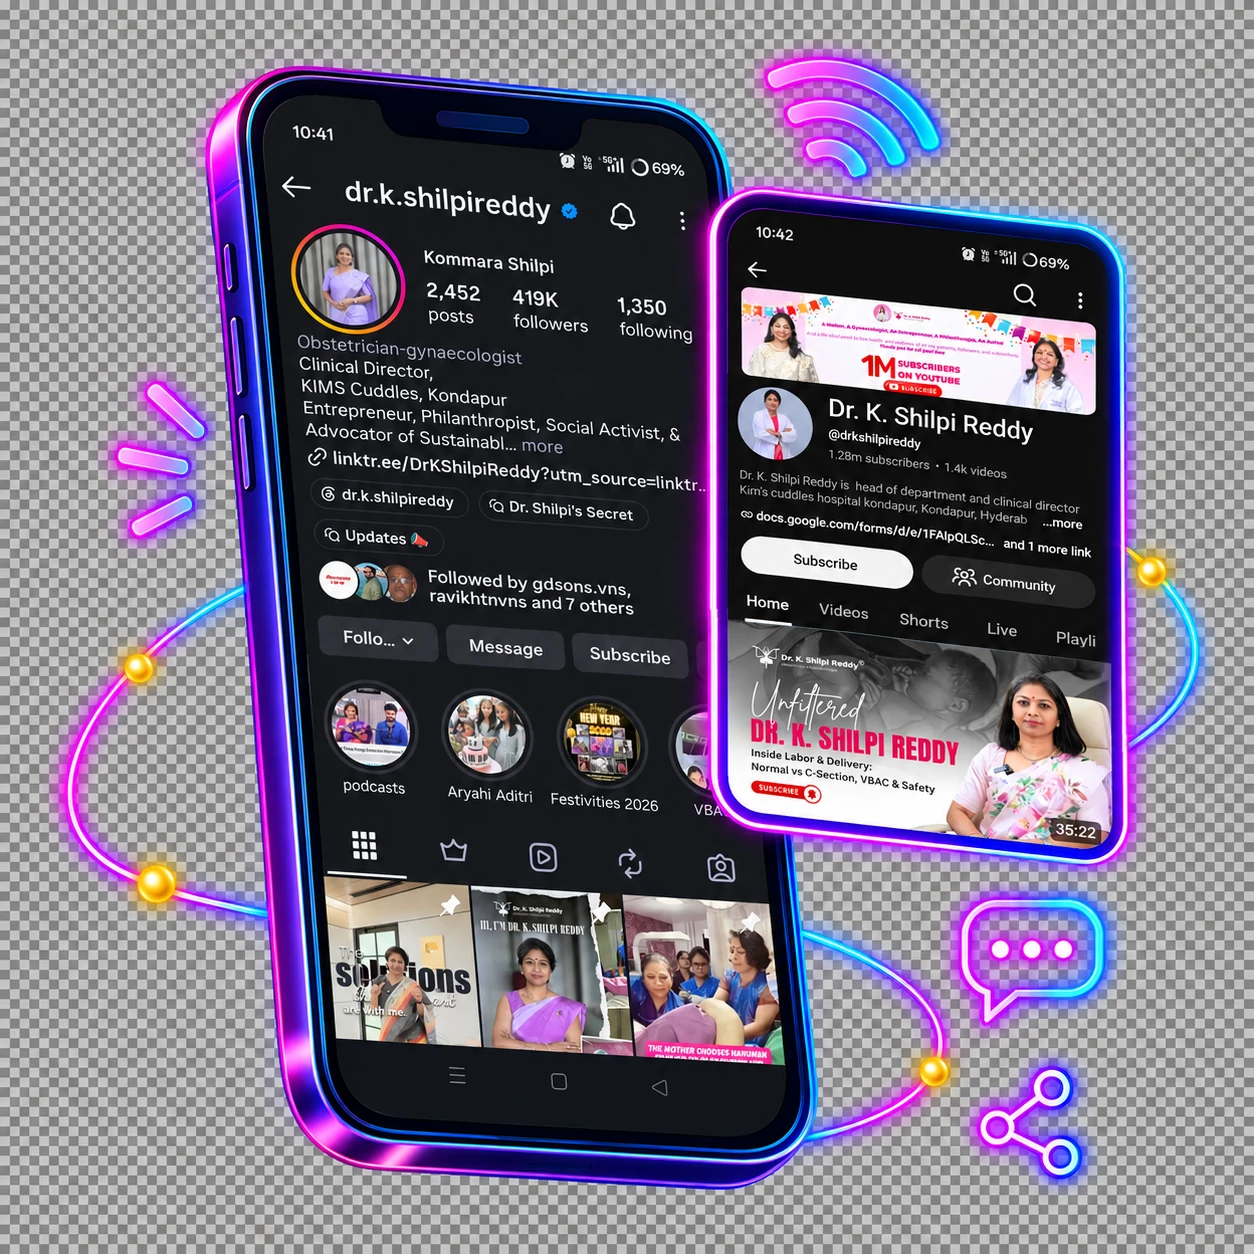
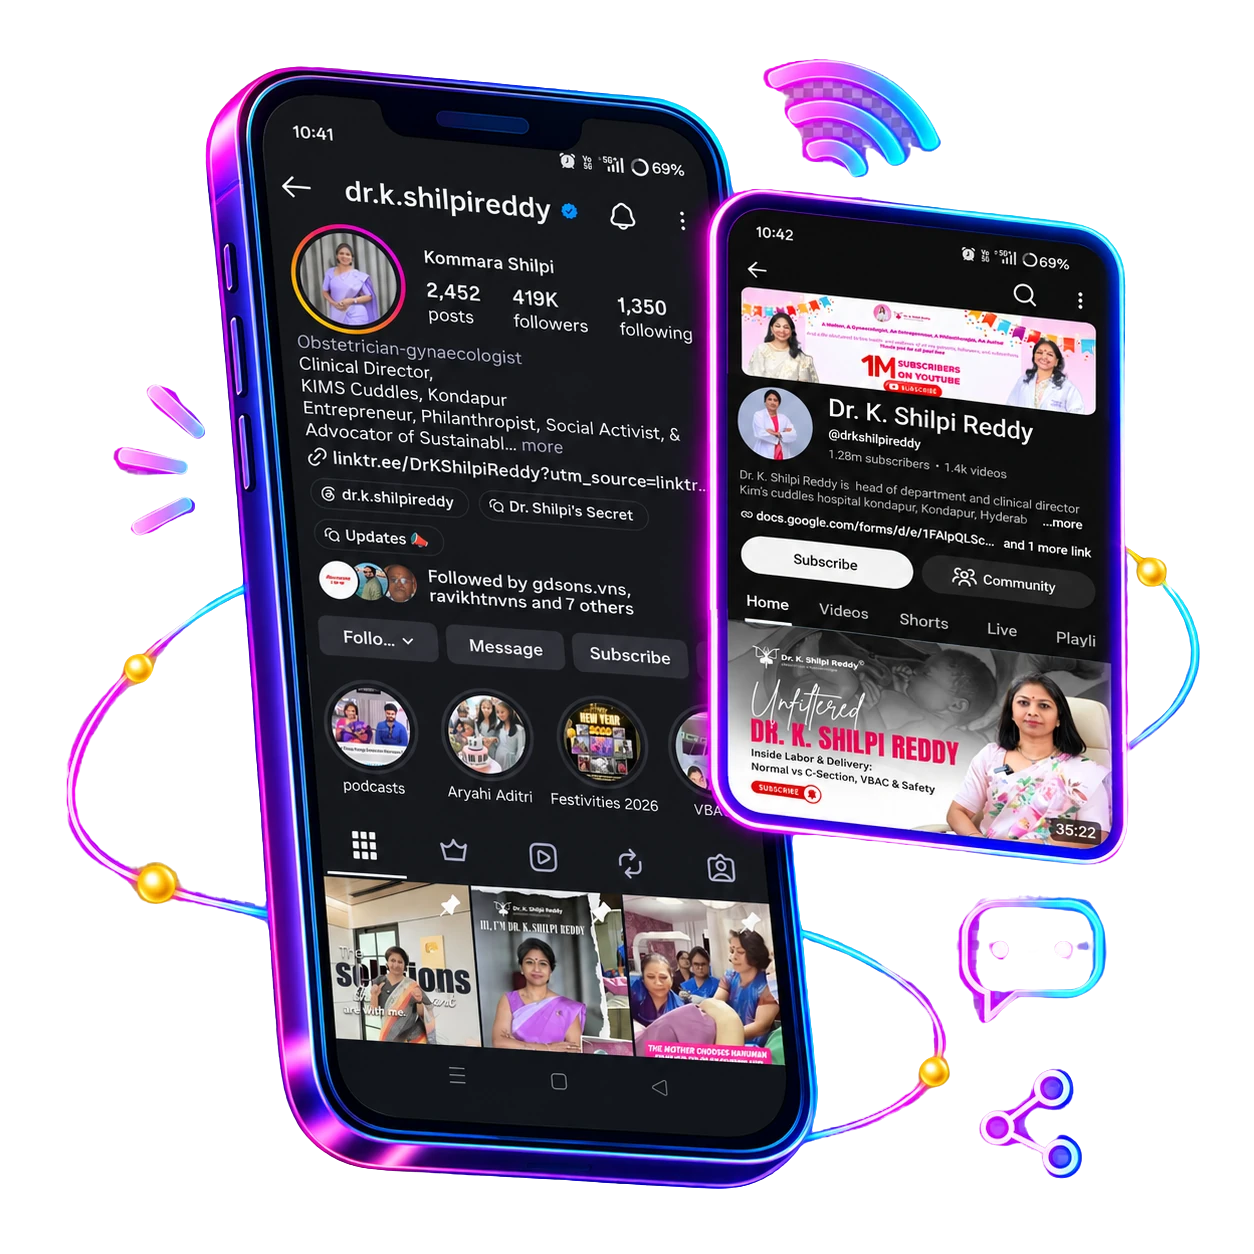
Add files via upload

diff --git a/src/components/clients/client_profile.tsx b/src/components/clients/client_profile.tsx
@@ -67,12 +67,15 @@ function getRelatedClients(client: Client, limit = 4) {
 export default function ClientProfile({ client }: { client: Client }) {
     const relatedClients = getRelatedClients(client);
     const labels = sectorLabels(client.sectors);
+    const bannerImage = client.screenshots?.[0];
+    const remainingScreenshots = client.screenshots?.slice(1) ?? [];
 
     return (
         <main>
+            {/* Banner — leads with the real screenshot, not the decorative illustration */}
             <Section className="relative overflow-hidden">
                 <Wrapper>
-                    <div className={client.heroImage ? "grid lg:grid-cols-2 gap-10 items-center" : ""}>
+                    <div className={bannerImage ? "grid lg:grid-cols-2 gap-10 items-center" : ""}>
                         <div>
                             <FadeUp delay={0}>
                                 <div className="flex items-center gap-1.5 text-[11px] text-zinc-600 mb-6 flex-wrap">
@@ -138,15 +141,16 @@ export default function ClientProfile({ client }: { client: Client }) {
                             )}
                         </div>
 
-                        {client.heroImage && (
+                        {bannerImage && (
                             <div className="flex items-center justify-center relative mt-8 lg:mt-0">
-                                <FadeUp delay={0.2} className="relative w-full max-w-[420px] mx-auto">
+                                <FadeUp delay={0.2} className="relative w-full max-w-[460px] mx-auto rounded-2xl overflow-hidden border border-zinc-800 bg-zinc-900">
                                     <Image
-                                        src={client.heroImage}
-                                        alt={`${client.name} — conceptual illustration`}
+                                        src={bannerImage.src}
+                                        alt={bannerImage.caption ?? `${client.name} — real results`}
                                         width={1254}
                                         height={1254}
-                                        className="w-full h-auto object-contain select-none pointer-events-none"
+                                        priority
+                                        className="w-full h-auto object-contain"
                                     />
                                 </FadeUp>
                             </div>
@@ -155,24 +159,38 @@ export default function ClientProfile({ client }: { client: Client }) {
                 </Wrapper>
             </Section>
 
-            {/* Overview */}
+            {/* Overview — the story, with the decorative illustration as a supporting visual */}
             <Section>
                 <Wrapper className="lg:py-10 md:py-8 py-6">
                     {client.overview ? (
-                        <FadeUp className="max-w-2xl">
-                            <p className="text-zinc-400 text-[14px] leading-relaxed font-light whitespace-pre-line">
-                                {client.overview}
-                            </p>
-                            {client.highlights && client.highlights.length > 0 && (
-                                <ul className="mt-6 flex flex-col gap-2.5">
-                                    {client.highlights.map((h) => (
-                                        <li key={h} className="text-zinc-400 text-[13.5px] flex gap-2">
-                                            <span className="text-amber-600">—</span>{h}
-                                        </li>
-                                    ))}
-                                </ul>
+                        <div className={client.heroImage ? "grid lg:grid-cols-[1.4fr_1fr] gap-10 items-start" : ""}>
+                            <FadeUp className="max-w-2xl">
+                                <p className="text-zinc-400 text-[14px] leading-relaxed font-light whitespace-pre-line">
+                                    {client.overview}
+                                </p>
+                                {client.highlights && client.highlights.length > 0 && (
+                                    <ul className="mt-6 flex flex-col gap-2.5">
+                                        {client.highlights.map((h) => (
+                                            <li key={h} className="text-zinc-400 text-[13.5px] flex gap-2">
+                                                <span className="text-amber-600">—</span>{h}
+                                            </li>
+                                        ))}
+                                    </ul>
+                                )}
+                            </FadeUp>
+
+                            {client.heroImage && (
+                                <FadeUp delay={0.1} className="relative w-full max-w-[280px] mx-auto lg:sticky lg:top-24">
+                                    <Image
+                                        src={client.heroImage}
+                                        alt={`${client.name} — conceptual illustration`}
+                                        width={1254}
+                                        height={1254}
+                                        className="w-full h-auto object-contain select-none pointer-events-none"
+                                    />
+                                </FadeUp>
                             )}
-                        </FadeUp>
+                        </div>
                     ) : (
                         <FadeUp className="max-w-lg bg-zinc-900/60 border border-zinc-800 rounded-2xl p-6">
                             <p className="text-zinc-500 text-[13px] font-light">
@@ -205,15 +223,15 @@ export default function ClientProfile({ client }: { client: Client }) {
                 </Section>
             )}
 
-            {/* Screenshots */}
-            {client.screenshots && client.screenshots.length > 0 && (
+            {/* Additional screenshots — the first one already leads the banner above */}
+            {remainingScreenshots.length > 0 && (
                 <Section>
                     <Wrapper className="lg:py-10 md:py-8 py-6">
                         <FadeUp>
                             <p className="text-zinc-100 font-semibold text-[13px] tracking-wide mb-4">A closer look</p>
                         </FadeUp>
                         <div className="grid sm:grid-cols-2 gap-4">
-                            {client.screenshots.map((shot, i) => (
+                            {remainingScreenshots.map((shot, i) => (
                                 <FadeUp key={shot.src} delay={i * 0.05} className="rounded-2xl overflow-hidden border border-zinc-800 bg-zinc-900">
                                     <Image src={shot.src} alt={shot.caption ?? `${client.name} screenshot`} width={1254} height={1254} className="w-full h-auto object-cover" />
                                     {shot.caption && <p className="text-zinc-500 text-[11.5px] p-3">{shot.caption}</p>}

diff --git a/src/components/sectors/sector_client_list.tsx b/src/components/sectors/sector_client_list.tsx
@@ -1,4 +1,5 @@
 import Link from "next/link"
+import Image from "next/image"
 import { ArrowUpRight } from "lucide-react"
 import { Section, Wrapper } from "@/components/ui/sections"
 import { FadeUp } from "@/components/ui/motion_components"
@@ -22,29 +23,45 @@ export default function SectorClientList({ sectorSlug, sectorLabel }: { sectorSl
                 </FadeUp>
 
                 {sectorClients.length > 0 && (
-                    <div className="grid sm:grid-cols-2 lg:grid-cols-3 gap-3">
-                        {sectorClients.map((client, i) => (
-                            <FadeUp key={client.slug} delay={i * 0.05}>
-                                <Link
-                                    href={`/our-works/${client.slug}`}
-                                    className="group block bg-zinc-900 border border-zinc-800 hover:border-amber-600/30 rounded-xl p-4 transition-colors h-full"
-                                >
-                                    <div className="flex items-start justify-between">
-                                        <p className="text-zinc-200 text-[14px] font-medium group-hover:text-amber-600 transition-colors">
-                                            {client.name}
-                                        </p>
-                                        <ArrowUpRight size={14} className="text-zinc-600 group-hover:text-amber-600 transition-colors shrink-0" />
-                                    </div>
-                                    <div className="flex flex-wrap gap-1 mt-2">
-                                        {client.tags.slice(0, 3).map((tag) => (
-                                            <span key={tag} className="text-[9.5px] px-1.5 py-0.5 rounded border border-zinc-800 text-zinc-500 bg-zinc-950">
-                                                {tag}
-                                            </span>
-                                        ))}
-                                    </div>
-                                </Link>
-                            </FadeUp>
-                        ))}
+                    <div className="grid sm:grid-cols-2 lg:grid-cols-3 gap-4">
+                        {sectorClients.map((client, i) => {
+                            const showcase = client.screenshots?.[0]
+                            return (
+                                <FadeUp key={client.slug} delay={i * 0.05}>
+                                    <Link
+                                        href={`/our-works/${client.slug}`}
+                                        className="group block bg-zinc-900 border border-zinc-800 hover:border-amber-600/30 rounded-xl overflow-hidden transition-colors h-full"
+                                    >
+                                        {showcase && (
+                                            <div className="relative w-full h-36 bg-zinc-950 border-b border-zinc-800">
+                                                <Image
+                                                    src={showcase.src}
+                                                    alt={showcase.caption ?? `${client.name} — real results`}
+                                                    width={1254}
+                                                    height={1254}
+                                                    className="w-full h-full object-cover"
+                                                />
+                                            </div>
+                                        )}
+                                        <div className="p-4">
+                                            <div className="flex items-start justify-between">
+                                                <p className="text-zinc-200 text-[14px] font-medium group-hover:text-amber-600 transition-colors">
+                                                    {client.name}
+                                                </p>
+                                                <ArrowUpRight size={14} className="text-zinc-600 group-hover:text-amber-600 transition-colors shrink-0" />
+                                            </div>
+                                            <div className="flex flex-wrap gap-1 mt-2">
+                                                {client.tags.slice(0, 3).map((tag) => (
+                                                    <span key={tag} className="text-[9.5px] px-1.5 py-0.5 rounded border border-zinc-800 text-zinc-500 bg-zinc-950">
+                                                        {tag}
+                                                    </span>
+                                                ))}
+                                            </div>
+                                        </div>
+                                    </Link>
+                                </FadeUp>
+                            )
+                        })}
                     </div>
                 )}
             </Wrapper>

diff --git a/src/components/work.tsx b/src/components/work.tsx
@@ -2,36 +2,44 @@ import { getFeaturedClients } from '@/constant/clients'
 import { Client } from '@/types/client.types'
 import { ArrowUpRight } from 'lucide-react'
 import Link from 'next/link'
+import Image from 'next/image'
 import { Section, Wrapper } from './ui/sections'
 import { FadeUp } from './ui/motion_components'
 
 
 function ProjectCard({ client }: { client: Client }) {
-    const { name, sectors, tags, colSpan, rowSpan, imgHeight } = client
+    const { name, sectors, tags, heroImage } = client
 
     return (
         <Link
             href={`/our-works/${client.slug}`}
-            className={`h-full group relative bg-zinc-900 rounded-2xl overflow-hidden cursor-pointer border border-zinc-800 hover:border-zinc-700  transition-all duration-200 flex flex-col ${colSpan ?? ''} ${rowSpan ?? ''}`}
+            className="h-full group relative bg-zinc-900 rounded-2xl overflow-hidden cursor-pointer border border-zinc-800 hover:border-zinc-700 transition-all duration-200 flex flex-col"
         >
-            {/* Image placeholder */}
-            <div className={`relative w-full bg-zinc-950 shrink-0 ${rowSpan === 'row-span-2' ? 'flex-1' : (imgHeight ?? 'h-44')}`}>
-                {/* Subtle grid texture */}
-                <div
-                    className="absolute inset-0 opacity-30"
-                    style={{
-                        backgroundImage:
-                            'linear-gradient(rgba(255,255,255,0.04) 1px, transparent 1px), linear-gradient(90deg, rgba(255,255,255,0.04) 1px, transparent 1px)',
-                        backgroundSize: '24px 24px',
-                    }}
-                />
-                {/* Sector label centered */}
-                <div className="absolute inset-0 flex items-center justify-center">
-                    <span className="text-[11px] font-medium text-zinc-600 tracking-widest uppercase">
-                        {sectors && sectors.length > 0 ? sectors.join(' / ') : name}
-                    </span>
-                </div>
-                {/* Amber corner accent */}
+            {/* Image — same fixed height for every card, no more asymmetric bento sizing */}
+            <div className="relative w-full h-44 shrink-0 bg-zinc-950 flex items-center justify-center p-6">
+                {heroImage ? (
+                    <Image
+                        src={heroImage}
+                        alt={`${name} illustration`}
+                        width={1254}
+                        height={1254}
+                        className="relative w-full h-full object-contain"
+                    />
+                ) : (
+                    <>
+                        <div
+                            className="absolute inset-0 opacity-30"
+                            style={{
+                                backgroundImage:
+                                    'linear-gradient(rgba(255,255,255,0.04) 1px, transparent 1px), linear-gradient(90deg, rgba(255,255,255,0.04) 1px, transparent 1px)',
+                                backgroundSize: '24px 24px',
+                            }}
+                        />
+                        <span className="relative text-[11px] font-medium text-zinc-600 tracking-widest uppercase">
+                            {sectors && sectors.length > 0 ? sectors.join(' / ') : name}
+                        </span>
+                    </>
+                )}
                 <div className="absolute top-3 left-3 w-1.5 h-1.5 rounded-full bg-amber-600/60" />
 
                 {/* Hover overlay */}
@@ -101,7 +109,6 @@ export default function PortfolioBentoGrid() {
 
                 <FadeUp delay={0.2}
                     className="grid grid-cols-1 sm:grid-cols-2 lg:grid-cols-3 gap-3"
-                    style={{ gridTemplateRows: 'auto' }}
                 >
                     {featured.map((client) => (
                         <ProjectCard key={client.slug} client={client} />

diff --git a/src/app/sector/food-and-dining/page.tsx b/src/app/sector/food-and-dining/page.tsx
@@ -19,11 +19,11 @@ export default function FoodAndDiningSectorPage() {
     return (
         <main>
             <SectorHero data={FoodDiningSectorHero} />
+            <SectorClientList sectorSlug="food-and-dining" sectorLabel="Food <ServiceFAQ data= Dining" />
             <SectorAudience data={FoodDiningSectorAudience} />
             <SectorServices data={FoodDiningSectorServices} />
             <SectorStatsBanner data={FoodDiningSectorStats} />
             <SectorTrust data={FoodDiningSectorTrust} />
-            <SectorClientList sectorSlug="food-and-dining" sectorLabel="Food <ServiceFAQ data= Dining" />
             <SectorInterestForm sectorLabel="Food <ServiceFAQ data= Dining" />
             <ServiceFAQ data={FoodDiningSectorFAQ} />
             <ServiceCTA />

diff --git a/src/app/sector/travel-and-tourism/page.tsx b/src/app/sector/travel-and-tourism/page.tsx
@@ -19,11 +19,11 @@ export default function TravelAndTourismSectorPage() {
     return (
         <main>
             <SectorHero data={TravelSectorHero} />
+            <SectorClientList sectorSlug="travel-and-tourism" sectorLabel="Travel <ServiceFAQ data= Tourism" />
             <SectorAudience data={TravelSectorAudience} />
             <SectorServices data={TravelSectorServices} />
             <SectorStatsBanner data={TravelSectorStats} />
             <SectorTrust data={TravelSectorTrust} />
-            <SectorClientList sectorSlug="travel-and-tourism" sectorLabel="Travel <ServiceFAQ data= Tourism" />
             <SectorInterestForm sectorLabel="Travel <ServiceFAQ data= Tourism" />
             <ServiceFAQ data={TravelSectorFAQ} />
             <ServiceCTA />

diff --git a/src/app/sector/local-services/page.tsx b/src/app/sector/local-services/page.tsx
@@ -19,11 +19,11 @@ export default function LocalServicesSectorPage() {
     return (
         <main>
             <SectorHero data={LocalServicesSectorHero} />
+            <SectorClientList sectorSlug="local-services" sectorLabel="Local Services" />
             <SectorAudience data={LocalServicesSectorAudience} />
             <SectorServices data={LocalServicesSectorServices} />
             <SectorStatsBanner data={LocalServicesSectorStats} />
             <SectorTrust data={LocalServicesSectorTrust} />
-            <SectorClientList sectorSlug="local-services" sectorLabel="Local Services" />
             <SectorInterestForm sectorLabel="Local Services" />
             <ServiceFAQ data={LocalServicesSectorFAQ} />
             <ServiceCTA />

diff --git a/src/app/sector/automotive/page.tsx b/src/app/sector/automotive/page.tsx
@@ -19,11 +19,11 @@ export default function AutomotiveSectorPage() {
     return (
         <main>
             <SectorHero data={AutomotiveSectorHero} />
+            <SectorClientList sectorSlug="automotive" sectorLabel="Automotive" />
             <SectorAudience data={AutomotiveSectorAudience} />
             <SectorServices data={AutomotiveSectorServices} />
             <SectorStatsBanner data={AutomotiveSectorStats} />
             <SectorTrust data={AutomotiveSectorTrust} />
-            <SectorClientList sectorSlug="automotive" sectorLabel="Automotive" />
             <SectorInterestForm sectorLabel="Automotive" />
             <ServiceFAQ data={AutomotiveSectorFAQ} />
             <ServiceCTA />

diff --git a/src/app/sector/healthcare/page.tsx b/src/app/sector/healthcare/page.tsx
@@ -19,11 +19,11 @@ export default function HealthcareSectorPage() {
     return (
         <main>
             <SectorHero data={HealthcareSectorHero} />
+            <SectorClientList sectorSlug="healthcare" sectorLabel="Healthcare" />
             <SectorAudience data={HealthcareSectorAudience} />
             <SectorServices data={HealthcareSectorServices} />
             <SectorStatsBanner data={HealthcareSectorStats} />
             <SectorTrust data={HealthcareSectorTrust} />
-            <SectorClientList sectorSlug="healthcare" sectorLabel="Healthcare" />
             <SectorInterestForm sectorLabel="Healthcare" />
             <ServiceFAQ data={HealthcareSectorFAQ} />
             <ServiceCTA />

diff --git a/src/app/sector/e-commerce/page.tsx b/src/app/sector/e-commerce/page.tsx
@@ -19,11 +19,11 @@ export default function ECommerceSectorPage() {
     return (
         <main>
             <SectorHero data={EcommerceSectorHero} />
+            <SectorClientList sectorSlug="e-commerce" sectorLabel="E-Commerce" />
             <SectorAudience data={EcommerceSectorAudience} />
             <SectorServices data={EcommerceSectorServices} />
             <SectorStatsBanner data={EcommerceSectorStats} />
             <SectorTrust data={EcommerceSectorTrust} />
-            <SectorClientList sectorSlug="e-commerce" sectorLabel="E-Commerce" />
             <SectorInterestForm sectorLabel="E-Commerce" />
             <ServiceFAQ data={EcommerceSectorFAQ} />
             <ServiceCTA />

diff --git a/src/app/sector/corporate/page.tsx b/src/app/sector/corporate/page.tsx
@@ -19,11 +19,11 @@ export default function CorporateSectorPage() {
     return (
         <main>
             <SectorHero data={CorporateSectorHero} />
+            <SectorClientList sectorSlug="corporate" sectorLabel="Corporate" />
             <SectorAudience data={CorporateSectorAudience} />
             <SectorServices data={CorporateSectorServices} />
             <SectorStatsBanner data={CorporateSectorStats} />
             <SectorTrust data={CorporateSectorTrust} />
-            <SectorClientList sectorSlug="corporate" sectorLabel="Corporate" />
             <SectorInterestForm sectorLabel="Corporate" />
             <ServiceFAQ data={CorporateSectorFAQ} />
             <ServiceCTA />

diff --git a/src/app/sector/education/page.tsx b/src/app/sector/education/page.tsx
@@ -19,11 +19,11 @@ export default function EducationSectorPage() {
     return (
         <main>
             <SectorHero data={EducationSectorHero} />
+            <SectorClientList sectorSlug="education" sectorLabel="Education" />
             <SectorAudience data={EducationSectorAudience} />
             <SectorServices data={EducationSectorServices} />
             <SectorStatsBanner data={EducationSectorStats} />
             <SectorTrust data={EducationSectorTrust} />
-            <SectorClientList sectorSlug="education" sectorLabel="Education" />
             <SectorInterestForm sectorLabel="Education" />
             <ServiceFAQ data={EducationSectorFAQ} />
             <ServiceCTA />

diff --git a/src/app/sector/retail/page.tsx b/src/app/sector/retail/page.tsx
@@ -19,11 +19,11 @@ export default function RetailSectorPage() {
     return (
         <main>
             <SectorHero data={RetailSectorHero} />
+            <SectorClientList sectorSlug="retail" sectorLabel="Retail" />
             <SectorAudience data={RetailSectorAudience} />
             <SectorServices data={RetailSectorServices} />
             <SectorStatsBanner data={RetailSectorStats} />
             <SectorTrust data={RetailSectorTrust} />
-            <SectorClientList sectorSlug="retail" sectorLabel="Retail" />
             <SectorInterestForm sectorLabel="Retail" />
             <ServiceFAQ data={RetailSectorFAQ} />
             <ServiceCTA />
